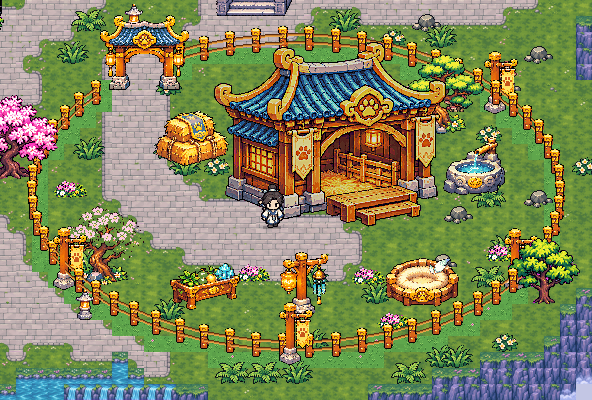
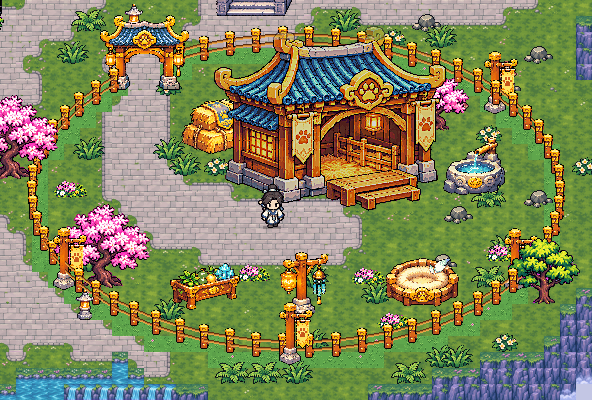
M8: Chuong Linh Thu cong kin hon, chuong nhich len, rom sang phai khoi loi di, dung cay hoa dao co san

diff --git a/src/data/sect_layout.js b/src/data/sect_layout.js
@@ -38,7 +38,7 @@ export const SECT = {
   // Luyện Võ Trường: sân đất (elip trong lưới) + rào chữ nhật bên trong, cổng rào phía bắc lệch trái (đầu đường đông nam)
   // (16/11) Chuồng Linh Thú bo tròn như concept: elip tâm c, bán trục rx/ry (ô); cổng ở góc trên trái; trụ cờ ở các góc (rad)
   PEN: { id: 'luyen_vo', name: 'Chuồng Linh Thú', ...BOCUC.pen, door: [85, 40.3], ring: { c: [95.5, 49.8], rx: 16.5, ry: 9.6, gate: [86, 42], flags: [0.55, 2.6, 1.57, 5.6] },
-    path: [[85.6, 41.6], [85.4, 44.5], [85.8, 48], [87.6, 50.4], [91, 51.8], [95, 52.4], [97.8, 52.4]] },
+    path: [[85.6, 41.6], [85.4, 44.5], [85.8, 48], [87.6, 50], [91, 51.2], [95, 51.6], [97.8, 51.6]] },
   GATE: { nha: 'cong_bi_canh', at: [60.5, 21] },   // (16/11) cổng bí cảnh tách từ concept: chân bậc (ô); PORTAL = chỗ đứng bấm E trên bệ
   PORTAL: null,
   BIA: tf([60.5, 53.4]),   // bia lớn giữa vườn bia (concept: chân bia ~ (60.6, 53.9))
@@ -61,9 +61,9 @@ export const SECT = {
     // (16/11) Chuồng Linh Thú (thay Luyện Võ Trường): chuồng mái ngói, máng ăn, máng nước, ụ rơm, ổ rơm, cột đèn (sprites/tm_chuong)
     // xếp theo mẫu bố cục ChatGPT (docs/concept/chuong_linh_thu_bo_cuc_chatgpt.png): chuồng giữa sau, ụ rơm trái chuồng, giếng nước phải,
     // ổ rơm phải trước, máng ăn trái trước, cột đèn giữa trước, cây hoa đào góc trái, cờ trên rào, khóm hoa rải
-    ['chuong_thu', 97.6, 51.2, [11, 2]],   // chuồng giữa sau (điểm nhấn)
-    ['u_rom', 89, 47.4, [3, 1]], ['cay_tung', 104.6, 45.4, [2, 1]], ['mang_nuoc', 106.6, 49.2, [3, 1]],
-    ['cay_dao', 83.4, 54.8, [2, 1]], ['mang_an', 89.8, 56.4, [3, 1]], ['cot_den', 96, 56.9, [1, 1]], ['o_rom', 103.4, 56.2, [3, 1]],
+    ['chuong_thu', 97.6, 50.2, [11, 2]],   // chuồng giữa sau (điểm nhấn)
+    ['u_rom', 90.6, 46.6, [3, 1]], ['anh_dao_nho', 104.4, 45.2, [1, 1]], ['mang_nuoc', 106.6, 49.2, [3, 1]],
+    ['anh_dao_lon', 83.4, 55, [2, 1]], ['mang_an', 89.8, 56.4, [3, 1]], ['cot_den', 96, 56.9, [1, 1]], ['o_rom', 103.4, 56.2, [3, 1]],
     ['khom_hoa', 92.8, 54.6], ['khom_hoa', 100, 54.8], ['khom_hoa', 108.4, 53.4], ['khom_hoa', 81.4, 49.4], ['khom_hoa', 92.4, 44.6], ['khom_hoa', 101.6, 57.6]
   ].map(([n, x, y, ...r]) => [n, ...tf([x, y + (PEN_PROPS.has(n) || (n === 'co_phuon' && x > 80) ? PEN_DY : 0)]), ...r]),
 };

diff --git a/src/world/map.js b/src/world/map.js
@@ -84,7 +84,7 @@ export function buildSectGrid(S = SECT) {
     for (let y = Math.floor(ecy - ry) - 1; y <= ecy + ry + 1; y++) for (let x = Math.floor(ecx - rx) - 1; x <= ecx + rx + 1; x++) {
       const ds = [dd(x, y), dd(x + 1, y), dd(x, y + 1), dd(x + 1, y + 1)], lo = Math.min(...ds), hi = Math.max(...ds);
       if (hi < 1) set(x, y, GRASS);
-      else if (lo < 1) set(x, y, Math.hypot(x + 0.5 - gx, y + 0.5 - gy) < 1.9 ? GRASS : FENCE);
+      else if (lo < 1) set(x, y, Math.hypot(x + 0.5 - gx, y + 0.5 - gy) < 1.3 ? GRASS : FENCE);
     }
   } else for (let y = P.y; y < P.y + P.h; y++) for (let x = P.x; x < P.x + P.w; x++) {
     const edge = x === P.x || y === P.y || x === P.x + P.w - 1 || y === P.y + P.h - 1;
@@ -172,7 +172,7 @@ export function makeSectMap(S = SECT) {
     const { c: [ecx, ecy], rx, ry, gate: [gx, gy] } = P.ring, posts = [];
     const N = Math.round(2 * Math.PI * Math.sqrt((rx * rx + ry * ry) / 2) * T / 22);
     for (let i = 0; i < N; i++) { const a = i / N * 2 * Math.PI, x = ecx + rx * Math.cos(a), y = ecy + ry * Math.sin(a);
-      posts.push({ x: (ox + x) * T, y: (oy + y) * T, gate: Math.hypot(x - gx, y - gy) < 2.1 }); }
+      posts.push({ x: (ox + x) * T, y: (oy + y) * T, gate: Math.hypot(x - gx, y - gy) < 1.5 }); }
     m.sect.pen.ring = { ...P.ring, posts };
     for (const a of P.ring.flags) m.sect.props.push({ s: 'tru_co', ...px([ecx + rx * Math.cos(a), ecy + ry * Math.sin(a) + 0.4]), flat: false });
     m.sect.props.push({ s: 'cong_chuong', ...px([gx, gy + 0.6]), flat: false });
